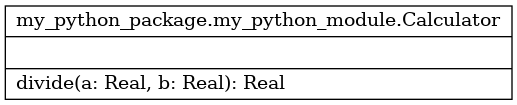
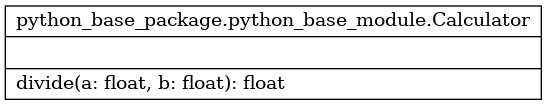
added improvements to noxfile workflow

Changed region(s): [[0.0, 0.0571, 1.0, 0.9429]]

diff --git a/{{cookiecutter.project_slug}}/src/{{cookiecutter.package_name}}/{{cookiecutter.module_name}}.py b/{{cookiecutter.project_slug}}/src/{{cookiecutter.package_name}}/{{cookiecutter.module_name}}.py
@@ -3,7 +3,6 @@
 """Module Docstring."""
 
 import logging
-from numbers import Real
 
 # TODO({{cookiecutter.full_name}}): Check how to write todos!
 # https://github.com/{{cookiecutter.github_username}}/{{cookiecutter.project_slug}}/issues/1337
@@ -16,19 +15,19 @@ class Calculator(object):
     """Class for simple calculator operations."""
 
     @staticmethod
-    def divide(a: Real, b: Real) -> Real:
+    def divide(a: float, b: float) -> float:
         """Divide a by b.
 
         Args:
-            a (Real): Dividend.
-            b (Real): Divisor.
+            a (float): Dividend.
+            b (float): Divisor.
 
         Returns:
-            Real: The result of the division.
+            float: The result of the division.
 
         Raises:
             ZeroDivisionError: if b is 0.
-            TypeError: if a or b are not Real numbers.
+            TypeError: if a or b are not float numbers.
 
         Examples:
             You can run this function as following.
@@ -39,12 +38,7 @@ class Calculator(object):
         """
         if b == 0:
             raise ZeroDivisionError
-        elif type(a) not in (Real, float, int) or type(b) not in (
-            Real,
-            float,
-            int,
-        ):
-            print(type(a), type(b))
+        elif type(a) not in (float, int) or type(b) not in (float, int):
             raise TypeError
         return a / b
 

diff --git a/{{cookiecutter.project_slug}}/tests/{{cookiecutter.package_name}}_test.py b/{{cookiecutter.project_slug}}/tests/{{cookiecutter.package_name}}_test.py
@@ -64,9 +64,9 @@ def test_divide_ok(a, b, expected):
     """Check if divide works for expected entries.
 
     Args:
-        a (Real): Dividend.
-        b (Real): Divisor.
-        expected (Real): expected result.
+        a (float): Dividend.
+        b (float): Divisor.
+        expected (float): expected result.
 
     """
     assert m.Calculator.divide(a, b) == expected
@@ -86,8 +86,8 @@ def test_divide_error(a, b, expected):
     Issue raised by https://github.com/{{cookiecutter.github_username}}/{{cookiecutter.project_slug}}/issues/1337
 
     Args:
-        a (Real): Dividend.
-        b (Real): Divisor.
+        a (float): Dividend.
+        b (float): Divisor.
         expected (Exception): expected Exception.
 
     """

diff --git a/{{cookiecutter.project_slug}}/noxfile.py b/{{cookiecutter.project_slug}}/noxfile.py
@@ -5,7 +5,25 @@ from pathlib import Path
 
 import nox
 
-nox.options.sessions = ["pre-commit"]
+nox.options.sessions = ["install", "pre-commit"]
+
+
+@nox.session(python=False, name="install")
+def install(session):
+    """Install project dependencies."""
+    session.run("pip", "install", "poetry")
+    session.run("poetry", "install")
+    session.run("git", "init")
+    session.run(
+        "poetry",
+        "run",
+        "pre-commit",
+        "install",
+        "--hook-type",
+        "pre-commit",
+        "--hook-type",
+        "pre-push",
+    )
 
 
 @nox.session(python=False, name="tests")

diff --git a/{{cookiecutter.project_slug}}/README.md b/{{cookiecutter.project_slug}}/README.md
@@ -28,10 +28,6 @@
     <a href="https://htmlpreview.github.io/?https://raw.githubusercontent.com/{{cookiecutter.github_username}}/{{cookiecutter.project_slug}}/main/docs/api/{{cookiecutter.project_slug}}/index.html"><strong>Explore the docs »</strong></a>
     <br />
     <br />
-    <a href="https://htmlpreview.github.io/?https://raw.githubusercontent.com/{{cookiecutter.github_username}}/{{cookiecutter.project_slug}}/main/docs/pytest_report.html">Tests</a>
-    ·
-    <a href="https://htmlpreview.github.io/?https://raw.githubusercontent.com/{{cookiecutter.github_username}}/{{cookiecutter.project_slug}}/main/docs/cov-report/index.html">Code Coverage</a>
-    ·
     <a href="https://github.com/{{cookiecutter.github_username}}/{{cookiecutter.project_slug}}/issues">Report Bug</a>
     ·
     <a href="https://github.com/{{cookiecutter.github_username}}/{{cookiecutter.project_slug}}/issues">Request Feature</a>
@@ -80,7 +76,7 @@
   <a href="https://github.com/{{cookiecutter.github_username}}/{{cookiecutter.project_slug}}/raw/main/docs/uml/diagrams/packages_{{cookiecutter.package_name}}.png">
     <img src="https://github.com/{{cookiecutter.github_username}}/{{cookiecutter.project_slug}}/raw/main/docs/uml/diagrams/packages_{{cookiecutter.package_name}}.png" alt="uml-diagram-packages">
   </a>
-  
+
 ---
 
 #### Classes
@@ -88,7 +84,7 @@
   <a href="https://github.com/{{cookiecutter.github_username}}/{{cookiecutter.project_slug}}/raw/main/docs/uml/diagrams/classes_{{cookiecutter.package_name}}.png">
     <img src="https://github.com/{{cookiecutter.github_username}}/{{cookiecutter.project_slug}}/raw/main/docs/uml/diagrams/classes_{{cookiecutter.package_name}}.png" alt="uml-diagram-classes">
   </a>
-  
+
 <p align="right">(<a href="#top">back to top</a>)</p>
 
 <!-- GETTING STARTED -->
@@ -101,9 +97,9 @@ To get a local copy up and running follow these simple steps.
 This Project depends on the following projects.
 * poetry
   ```sh
-  curl -sSL https://raw.githubusercontent.com/python-poetry/poetry/master/get-poetry.py | python -
+  pip install --user --upgrade poetry
   ```
-  
+
 * nox
   ```sh
   pip install --user --upgrade nox
@@ -116,11 +112,15 @@ This Project depends on the following projects.
    git clone https://github.com/{{cookiecutter.github_username}}/{{cookiecutter.project_slug}}
    cd {{cookiecutter.project_slug}}
    ```
-2. Install Python packages
+2. Install nox
    ```sh
-   poetry install
+   pip install --user --upgrade nox
    ```
-3. Run tests
+3.  Install pre-commit and poetry
+   ```sh
+   nox -s install
+   ```
+4. Run tests
    ```sh
    nox -s tests
    ```
@@ -134,21 +134,26 @@ This Project depends on the following projects.
 
 Some useful examples of how this project can be used:
 
+*  Install and run pre-commit checks
+   ```sh
+   nox
+   ```
+
 *  Run tests
    ```sh
    nox -s tests
    ```
-   
+
 *  Run code lint
    ```sh
    nox -s lint
    ```
-   
+
 *  Generate API documentation
    ```sh
    nox -s api-docs
    ```
-   
+
 *  Run pre-commit checks
    ```sh
    nox -s pre-commit
